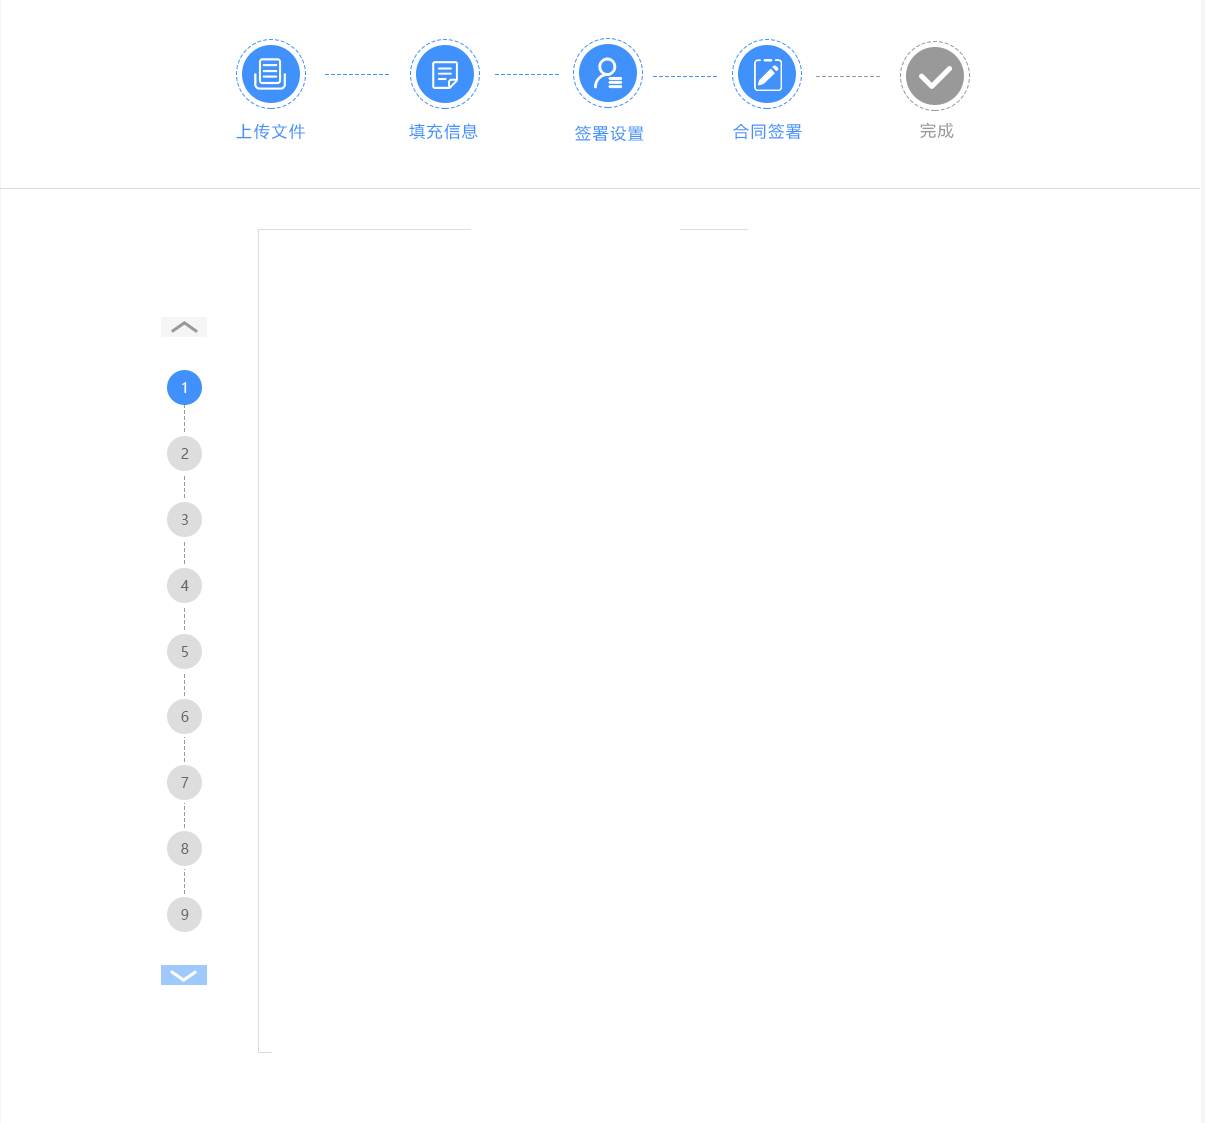
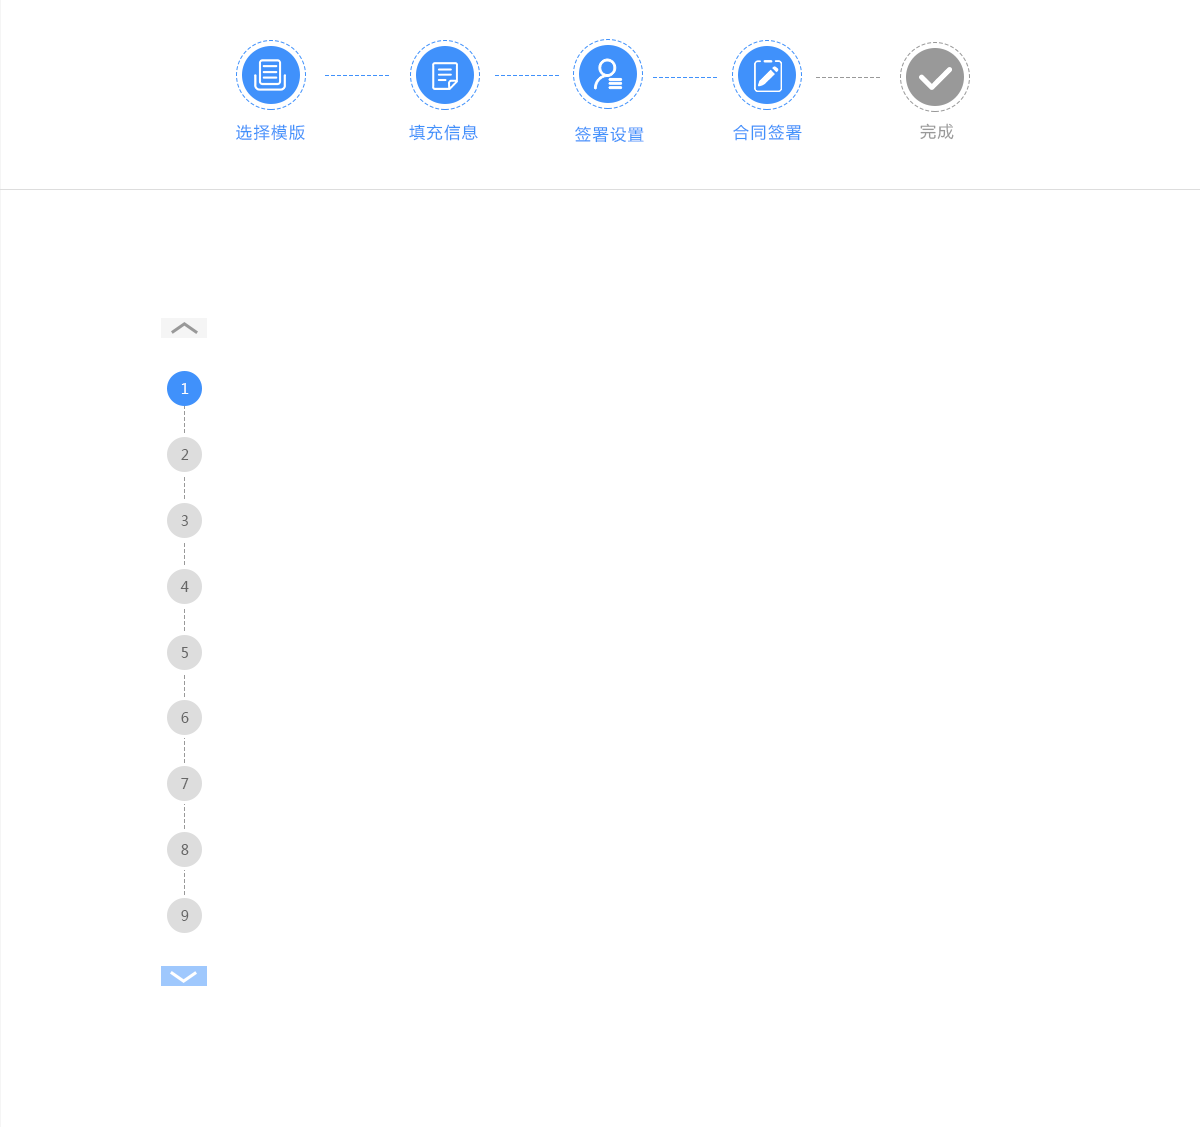
demo 1.6

diff --git a/src/demo/DemoSuccess.vue b/src/demo/DemoSuccess.vue
@@ -9,21 +9,8 @@
       </nav>
     </div>
 
+    <div class="demoSuccess-content"  >
 
-    <div class="demoSuccess-content" style="margin-top: 20px;height: 1050px;" >
-      <div class="step" style="width:720px;">  <!--步骤条 -->
-        <ul>
-          <li class="active"><i class='el-icon-document'></i><b>上传文件</b></li>
-          <p></p>
-          <li class="active"><i class='el-icon-goods'></i><b>签署设置</b></li>
-          <p></p>
-          <li class="active"><i class='el-icon-edit'></i><b>指定位置</b></li>
-          <p></p>
-          <li class="active"><i class='el-icon-menu'></i><b>合同签署</b></li>
-          <p></p>
-          <li class="active"><i class='el-icon-check'></i><b>完成</b></li>
-        </ul>
-      </div>
       <div class="demoSuccess-img">
 
       </div>
@@ -97,7 +84,16 @@
 <style scoped>
 
   @import "../common/styles/demo/DemoTops.css";
-  @import "../common/styles/demo/DemoSigningSteps.css";
+
+  .demoSuccess-content{
+    width: 1200px;
+    clear: both;
+    margin: 20px auto;
+    position: relative;
+    height: 1100px;
+    /*background-color: #fff;*/
+    background: url("../../static/images/Demo/demo-succ.png") no-repeat;
+  }
   .demoSuccess-content>.step-modal> .expression{
     width: 110px;
     height: 120px;
@@ -108,13 +104,7 @@
     top:420px
   }
 
-  .demoSuccess-content{
-    width: 1200px;
-    margin: 20px auto;
-    background-color: #fff;
-    position: relative;
 
-  }
   .demo-modal{
     width: 100%;
     height: 100%;
@@ -204,12 +194,11 @@
    border-radius: 5px;
  }
   .sign-success-tips{
-    z-index: 1002;
-    left: 715px;
-    top:665px;
-    position: absolute;
-
-  }
+    position: relative;
+    margin-left: 725px;
+    top: 635px;
+    z-index: 1003;
+    }
   .sign-success-tips>p{
     color: #666;
     font-size: 14px;

diff --git a/src/demo/DemoRegister.vue b/src/demo/DemoRegister.vue
@@ -8,7 +8,7 @@
       <div class="ms-login">
         <div class='center'>
           <div class='user'>
-            <h2 class='userInfo'>用户登录</h2>
+            <h2 class='userInfo'>体验登录</h2>
             <el-form  label-width="0px" :model="ruleForm" ref="ruleForm" :rules="rules">
                 <el-form-item prop="username">
                     <el-input placeholder="请输入姓名" v-model="ruleForm.username"></el-input>
@@ -166,7 +166,7 @@ export default {
                                 message: '短信验证码输入错误',
                                 type: 'error'
                             });
-                        }    
+                        }
 					}).catch(error => {
 						this.$message({
 							showClose: true,

diff --git a/src/demo/DemoContractSign.vue b/src/demo/DemoContractSign.vue
@@ -82,7 +82,7 @@
 <style scoped>
 
   @import "../common/styles/demo/DemoTops.css";
-  @import "../common/styles/demo/DemoSigningSteps.css";
+
 
   .demoTemplateFill-content{
     width: 1200px;
@@ -148,7 +148,7 @@
     left: 258px;
     top: 230px;
     /*background: url("../../static/images/Demo/contract02.png") no-repeat;*/
-    background: url("../../static/images/Demo/demo-detail03.jpg") no-repeat;
+    background: url("../../static/images/Demo/demo-detail05.jpg") no-repeat;
   }
 
   .template-fill-info{

diff --git a/src/demo/DemoAddPerson.vue b/src/demo/DemoAddPerson.vue
@@ -97,7 +97,7 @@
     height: 550px;
     position: relative;
     z-index: 1002;
-    background: url("../../static/images/Demo/addPerson1.png") no-repeat;
+    background: url("../../static/images/Demo/addPerson02.png") no-repeat;
     top: 200px;
   }
 
